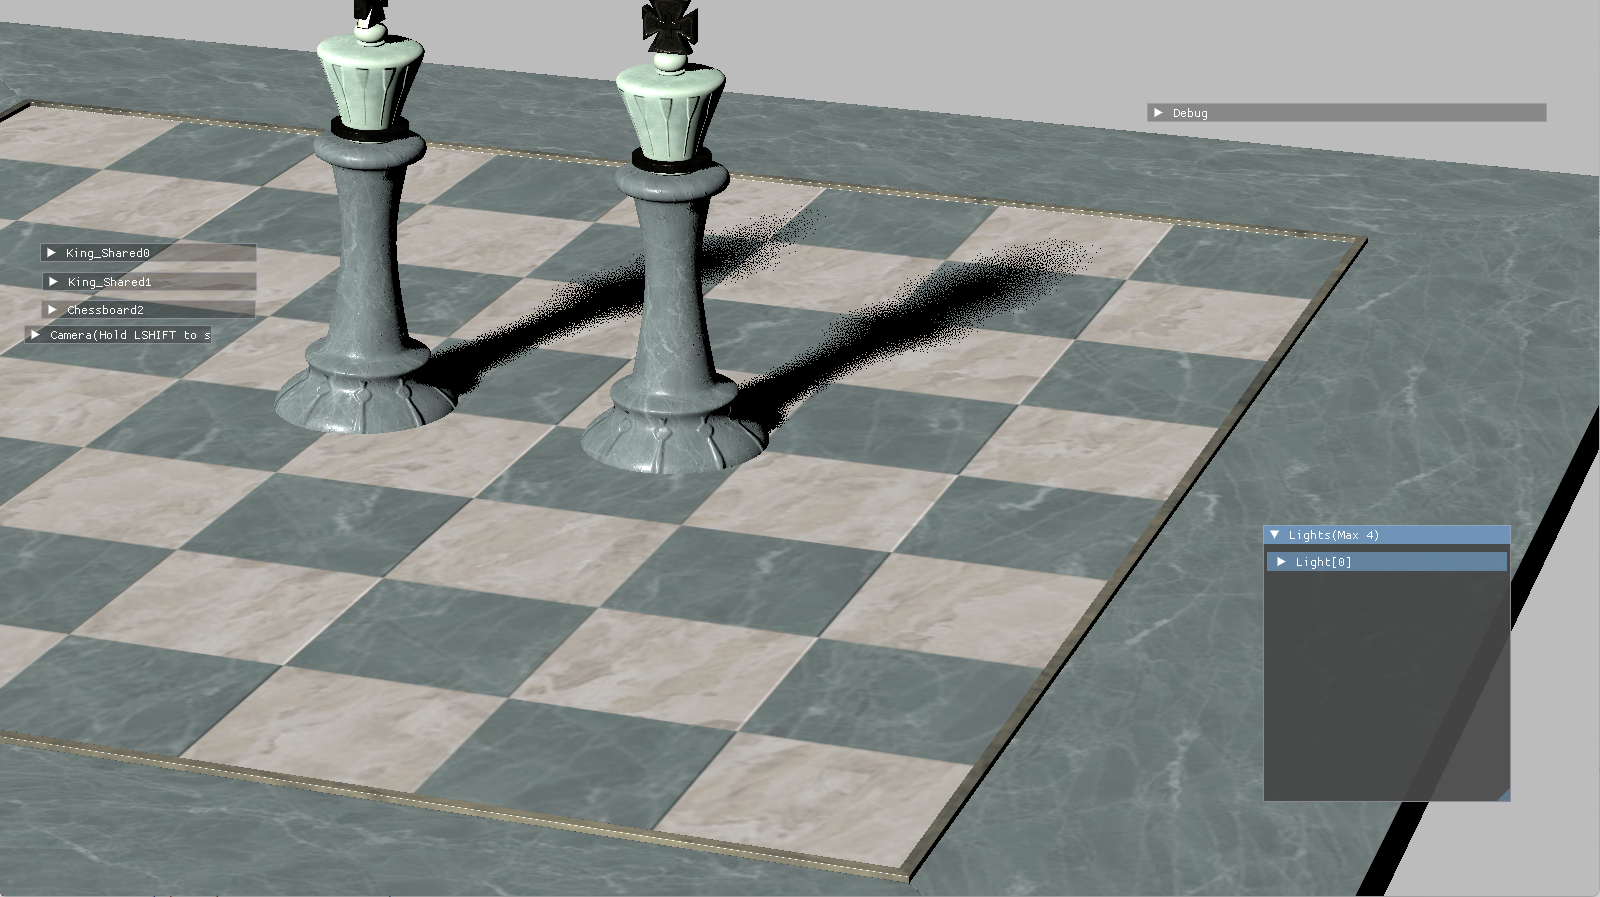
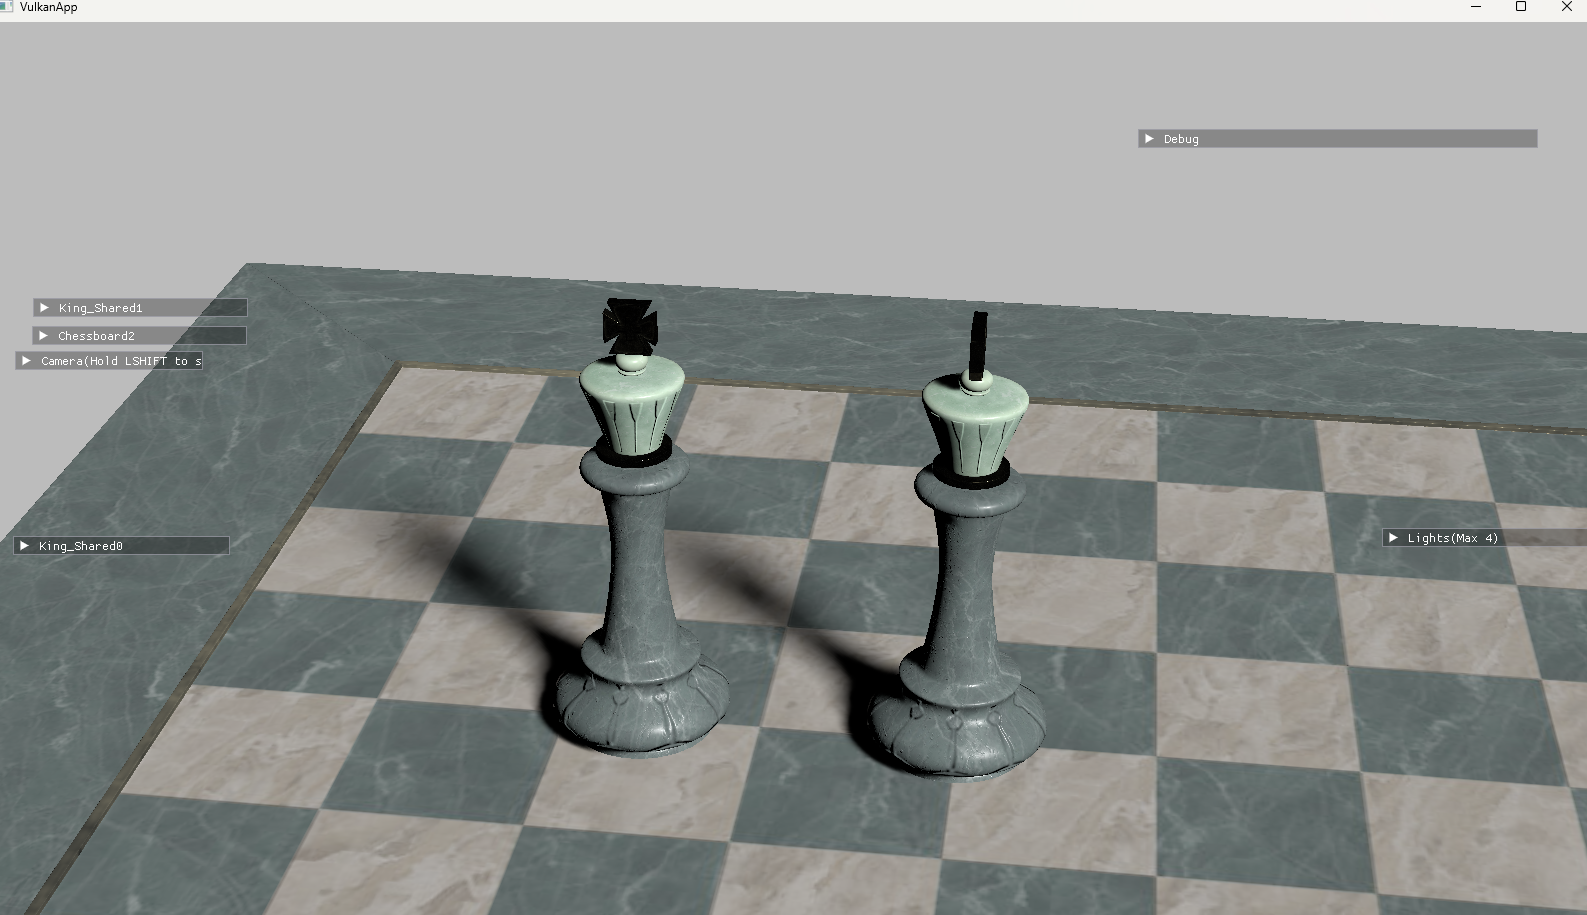
update vrez-rt

diff --git a/_in_progress/vrez_rt.md b/_in_progress/vrez_rt.md
@@ -36,6 +36,17 @@ gltf:
   - url: /assets/images/vrez_rt/gltf_scene.png
     image_path: /assets/images/vrez_rt/gltf_scene.png
 
+soft_shadow:
+  - url: /assets/images/vrez_rt/raw_shadow.png
+    image_path: /assets/images/vrez_rt/raw_shadow.png
+    title: "Raw Ray-Traced Shadow"
+  - url: /assets/images/vrez_rt/denoising_shadow.png
+    image_path: /assets/images/vrez_rt/denoising_shadow.png
+    title: "Shadow After Applying SVGF"
+  - url: /assets/images/vrez_rt/rt_shadow.png
+    image_path: /assets/images/vrez_rt/rt_shadow.png
+    title: "Soft Shadow with Rasterized Scene"
+
 ---
 
 {% include feature_row %}
@@ -95,15 +106,16 @@ The goal is to implement effects such as soft shadows and ambient occlusion usin
 
 ![Workflow](/assets/images/vrez_rt/workflow.png) -->
 
+### Denoising
+Ray traced results are inherently noisy, especially when only a few rays per pixel are used for real-time performance. To address this, I implemented [Spatiotemporal Variance-Guided Filtering (SVGF)](https://research.nvidia.com/publication/2017-07_spatiotemporal-variance-guided-filtering-real-time-reconstruction-path-traced), which is applied to ray traced outputs such as the soft shadows below.
+
 ### Soft Shadows
-Traditional shadow mapping often suffers from artifacts such as shadow acne and Peter-Panning. While techniques like PCF can soften the edges, the result still lacks realism. To address this, I use a compute shader to trace rays toward the light source and produce physically-based soft shadows, as shown below. Denoising is still a work in progress.
+Traditional shadow mapping often suffers from artifacts such as shadow acne and Peter-Panning. While techniques like PCF can soften the edges, the result still lacks realism (see examples in [VRez](/completed_projects/vrez/)). To address this, I use a compute shader to trace rays toward the light source and produce physically-based soft shadows.
 
-![Soft Shadow](/assets/images/vrez_rt/rt_shadow.png)
+I first sample blue noise points within a disk that represents the directional light to generate the raw ray traced shadow, then apply SVGF to smooth the result.
 
-### Denoising (WIP)
-Ray traced results are inherently noisy, especially when only a few rays per pixel are used for real-time performance. To address this, I am implementing [Spatiotemporal Variance-Guided Filtering (SVGF)](https://research.nvidia.com/publication/2017-07_spatiotemporal-variance-guided-filtering-real-time-reconstruction-path-traced).
+{% include gallery id="soft_shadow" caption="Soft Shadow" %}
 
-The denoiser will be applied to ray traced outputs such as the soft shadows above.
 ## Physics (TODO)
 Planned integration of **NVIDIA PhysX** for:
 - Rigid body simulation
@@ -297,3 +309,11 @@ I integrated [spdlog](https://github.com/gabime/spdlog) for structured logs with
 
 ### Better Shader Lanaguage
 I migrated the project to use [Slang](https://github.com/shader-slang/slang), a modern shader language with a more expressive and ergonomic design. Compared to GLSL, Slang offers improved usability, better abstraction support, and a cleaner workflow for cross-platform shader development.
+
+## References
+- [Using Blue Noise For Raytraced Soft Shadows](https://blog.demofox.org/2020/05/16/using-blue-noise-for-raytraced-soft-shadows/)
+- [Adventures in Hybrid Rendering](https://diharaw.github.io/post/adventures_in_hybrid_rendering/)
+- [Render graphs and Vulkan — a deep dive](https://themaister.net/blog/2017/08/15/render-graphs-and-vulkan-a-deep-dive/)
+- [Rendergraphs and how to implement one](https://poniesandlight.co.uk/reflect/island_rendergraph_1/)
+- [Spatiotemporal Variance-Guided Filtering: Real-Time Reconstruction for Path-Traced Global Illumination](https://research.nvidia.com/publication/2017-07_spatiotemporal-variance-guided-filtering-real-time-reconstruction-path-traced)
+- [A Low-Discrepancy Sampler that Distributes Monte Carlo Errors as a Blue Noise in Screen Space](https://belcour.github.io/blog/slides/2019-sampling-bluenoise/index.html)
